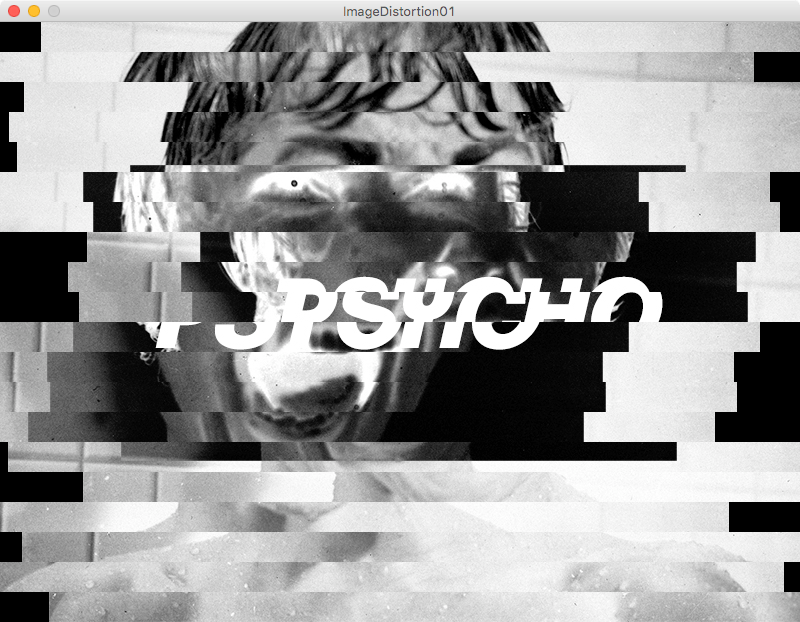
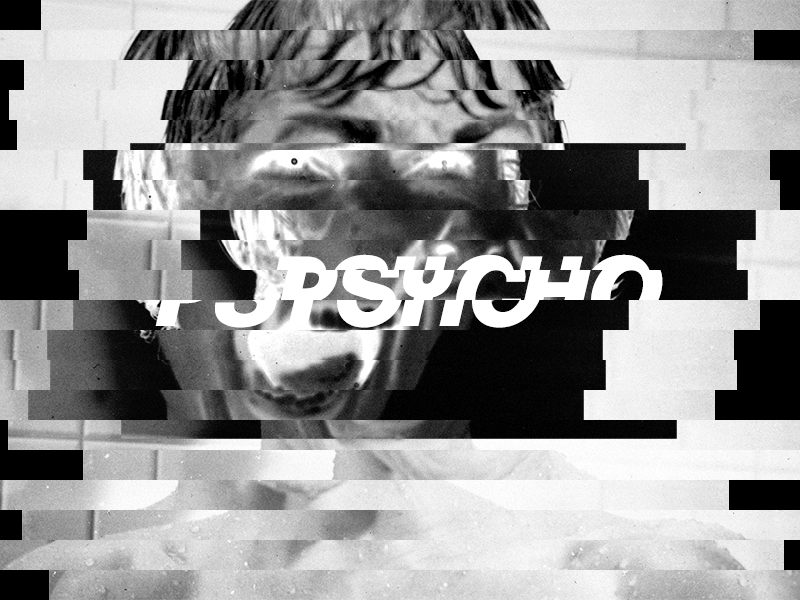
Update Readme

diff --git a/Tipografia Espressiva/README.md b/Tipografia Espressiva/README.md
@@ -1,9 +1,9 @@
-![image](https://github.com/KeremTurkyilmaz/TypeMistmatchSketch/blob/master/Tipografia%20Distorta/image/TipografiaDistorta00.jpg)
+![image](https://github.com/KeremTurkyilmaz/TypeMistmatchSketch/blob/master/Tipografia%20Espressiva/image/TipografiaEspressiva.jpg)
 
-# Tipografia distorta
+# Tipografia espressiva
 
 #### 10.01.2019
 
 Vengono caricate una serie di immagini che presentano della tipografia. Attraverso il movimento del mouse (X,Y) è possibile distorcere l'immagine e ottenere composizione interessanti. Il modo 1 agisce su X,Y mentre il modo 2 solo sulla X e il modo 3 solo sulla Y.
 
-\#processing \#tipografia \#distorsione \#immagini
+\#processing \#tipografia \#poster

diff --git a/Bassa Risoluzione/README.md b/Bassa Risoluzione/README.md
@@ -1,9 +1,9 @@
-![image](https://github.com/KeremTurkyilmaz/TypeMistmatchSketch/blob/master/Celle%20RGB/image/CelleRGB.png)
+![image](https://github.com/KeremTurkyilmaz/TypeMistmatchSketch/blob/master/Bassa%20Risoluzione/image/BassaRisoluzione.jpg)
 
-# Celle RGB
+# Bassa risoluzione
 
 #### 10.01.2019
 
 Sovrapposizione di celle, viene preso un numero random da 1 a 3 che determina il colore delle traccia (R, G, B). Ogni tot secondi viene cancellato lo sfondo per far emergere un altro pattern. 
 
-\#griglia \#processing \#rgb \#moire
+\#griglia \#processing \#video \#pixels

diff --git a/Video Timeline/README.md b/Video Timeline/README.md
@@ -1,6 +1,6 @@
-![image](https://github.com/KeremTurkyilmaz/TypeMistmatchSketch/blob/master/Tutti%20i%20font%20sul%20mio%20disco%20rigido/image/TuttiIFontSulMioDiscoRigido.jpg)
+![image](https://github.com/KeremTurkyilmaz/TypeMistmatchSketch/blob/master/Video%20Timeline/image/Timeline.png)
 
-# Tutti i font sul mio disco rigido
+# Timeline
 
 #### 10.01.2019
 

diff --git a/Rilievo Densità Pixel/README.md b/Rilievo Densità Pixel/README.md
@@ -1,6 +1,6 @@
-![image](https://github.com/KeremTurkyilmaz/TypeMistmatchSketch/blob/master/Psichedelico/image/Psichedelico00.png)
+![image](https://github.com/KeremTurkyilmaz/TypeMistmatchSketch/blob/master/Rilievo%20Densità%20Pixel/image/RilievoDensitaPixel.jpg)
 
-# Psichedelico
+# Rilievo Densità Pixel
 
 #### 10.01.2019
 

diff --git a/Slit Scanning/README.md b/Slit Scanning/README.md
@@ -1,6 +1,6 @@
-![image](https://github.com/KeremTurkyilmaz/TypeMistmatchSketch/blob/master/Scheda%20Tecnica%20Font/image/SchedaTecnicaFont.jpg)
+![image](https://github.com/KeremTurkyilmaz/TypeMistmatchSketch/blob/master/Slit%20Scanning/image/SlitScan.jpg)
 
-# Scheda tecnica Font
+# Slit Scan
 
 #### 10.01.2019
 

diff --git a/Moltiplica Porzione/README.md b/Moltiplica Porzione/README.md
@@ -1,6 +1,6 @@
-![image](https://github.com/KeremTurkyilmaz/TypeMistmatchSketch/blob/master/Cubo%20RGB/image/CuboRGB02.png)
+![image](https://github.com/KeremTurkyilmaz/TypeMistmatchSketch/blob/master/Moltiplica%20Porzione/image/MoltiplicaPorzione.jpg)
 
-# Cubo RGB
+# Moltiplica Porzione
 
 #### 10.01.2019
 

diff --git a/Face Mix/README.md b/Face Mix/README.md
@@ -1,6 +1,6 @@
-![image](https://github.com/KeremTurkyilmaz/TypeMistmatchSketch/blob/master/Lettere%20volanti/image/LettereVolanti.png)
+![image](https://github.com/KeremTurkyilmaz/TypeMistmatchSketch/blob/master/Face%20Mix/image/FaceMix.jpg)
 
-# Lettere volanti
+# Face Mix
 
 #### 10.01.2019
 

diff --git a/Pyscho/README.md b/Pyscho/README.md
@@ -1,6 +1,6 @@
-![image](https://github.com/KeremTurkyilmaz/TypeMistmatchSketch/blob/master/Psichedelico/image/Psichedelico00.png)
+![image](https://github.com/KeremTurkyilmaz/TypeMistmatchSketch/blob/master/Pyscho/image/pyscho.png)
 
-# Psichedelico
+# Psycho
 
 #### 10.01.2019
 

diff --git a/Media del colore/README.md b/Media del colore/README.md
@@ -1,4 +1,4 @@
-![image](https://github.com/KeremTurkyilmaz/TypeMistmatchSketch/blob/master/Mandala/image/Mandala02.png)
+![image](https://github.com/KeremTurkyilmaz/TypeMistmatchSketch/blob/master/Media%20del%20colore/image/MediaDelColore.jpg)
 
 # Mandala
 #### 10.01.2019

diff --git a/Libro in 3D/README.md b/Libro in 3D/README.md
@@ -1,4 +1,4 @@
-![image](https://github.com/KeremTurkyilmaz/TypeMistmatchSketch/blob/master/Lettere%20volanti/image/LettereVolanti.png)
+![image](https://github.com/KeremTurkyilmaz/TypeMistmatchSketch/blob/master/Libro%20in%203D/image/LibroIn3D.jpg)
 
 # Lettere volanti
 

diff --git a/Particelle/README.md b/Particelle/README.md
@@ -1,6 +1,6 @@
-![image](https://github.com/KeremTurkyilmaz/TypeMistmatchSketch/blob/master/Moiré/image/Moire.png)
+![image](https://github.com/KeremTurkyilmaz/TypeMistmatchSketch/blob/master/Particelle/image/particelle.jpg)
 
-# Moiré
+# Particelle
 
 #### 10.01.2019
 

diff --git a/Cubo/README.md b/Cubo/README.md
@@ -1,6 +1,6 @@
-![image](https://github.com/KeremTurkyilmaz/TypeMistmatchSketch/blob/master/Cubo%20RGB/image/CuboRGB02.png)
+![image](https://github.com/KeremTurkyilmaz/TypeMistmatchSketch/blob/master/Cubo/image/Cubo.jpg)
 
-# Cubo RGB
+# Cubo
 
 #### 10.01.2019
 
